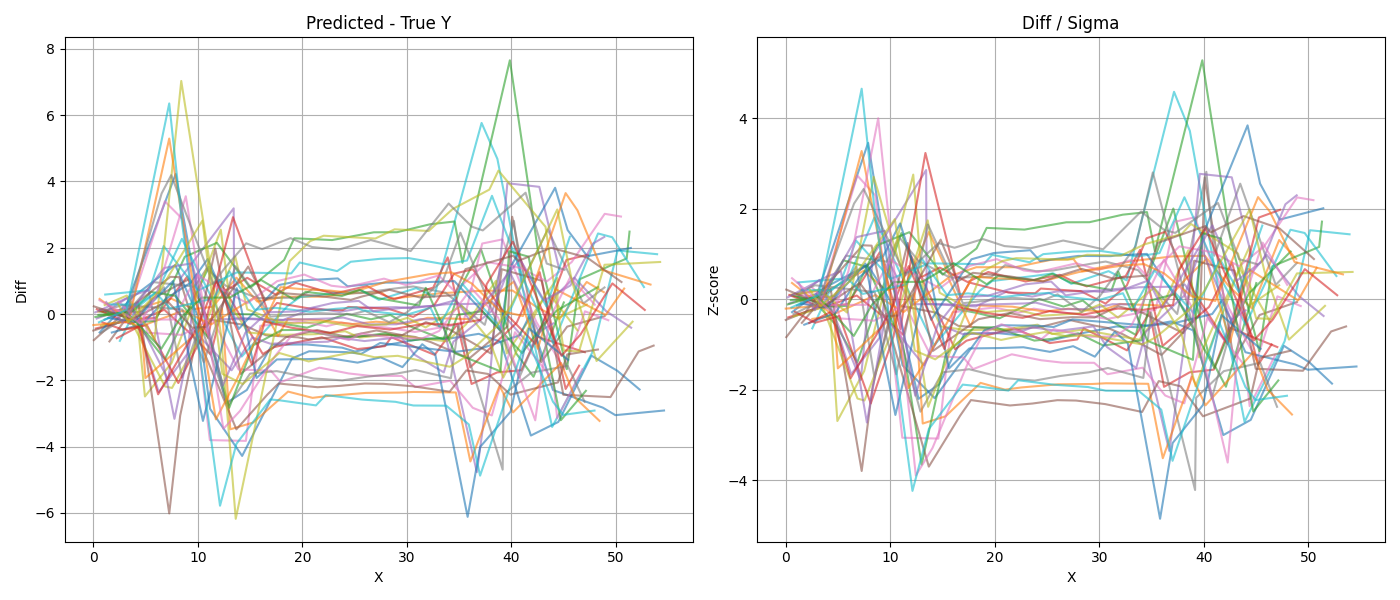
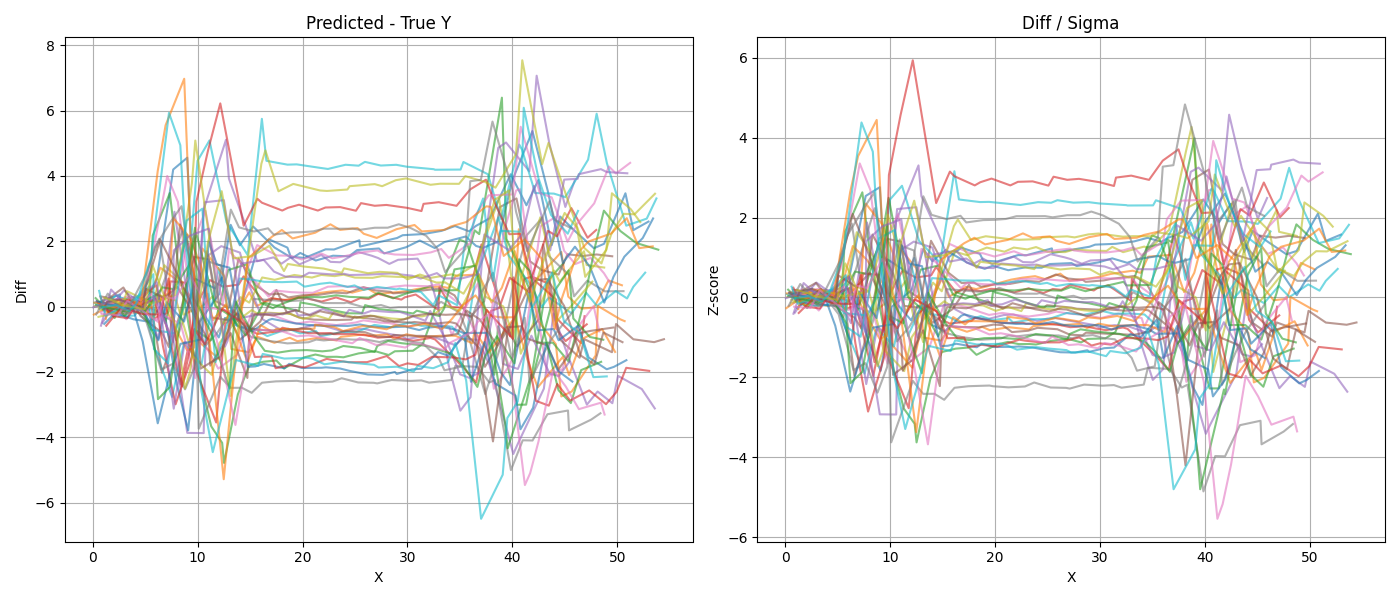
create automati resample and try GP with it. still with x and y

diff --git a/resample.py b/resample.py
@@ -1,0 +1,113 @@
+import os
+import numpy as np
+import matplotlib.pyplot as plt
+from scipy.interpolate import interp1d, CubicSpline, BarycentricInterpolator
+import argparse
+import json
+import glob
+
+# ========================== #
+#      CONFIG DICTIONARY     #
+# ========================== #
+config = {
+    "input_dir": "curves",      # Folder containing input .txt files
+    "output_dir": "resampled_curves", # Folder to save resampled .txt files
+    "interpolation": "linear",
+    "x_min": 0,
+    "x_max": 55,
+    "num_points": 40,
+    "plot": {
+        "show": False,
+        "save": False,
+        "file_name": "plot.png"
+    }
+}
+
+# ========================== #
+#       ARGUMENT PARSING     #
+# ========================== #
+parser = argparse.ArgumentParser(description="Batch interpolation and resampling of curve data.")
+
+parser.add_argument('--input_dir', type=str, help='Input folder with curve_*.txt files')
+parser.add_argument('--output_dir', type=str, help='Output folder to save resampled files')
+parser.add_argument('--interpolation', choices=['linear', 'cubic', 'quadratic', 'nearest', 'polynomial'], help="Interpolation type")
+parser.add_argument('--x_min', type=float, help='Min x value')
+parser.add_argument('--x_max', type=float, help='Max x value')
+parser.add_argument('--num_points', type=int, help='Number of points to sample')
+
+args = parser.parse_args()
+
+# Override config
+if args.input_dir: config['input_dir'] = args.input_dir
+if args.output_dir: config['output_dir'] = args.output_dir
+if args.interpolation: config['interpolation'] = args.interpolation
+if args.x_min is not None: config['x_min'] = args.x_min
+if args.x_max is not None: config['x_max'] = args.x_max
+if args.num_points: config['num_points'] = args.num_points
+
+print("Using config:")
+print(json.dumps(config, indent=4))
+
+# ========================== #
+#       HELPER FUNCTIONS     #
+# ========================== #
+
+def parse_txt_file(file_path):
+    with open(file_path, 'r') as file:
+        lines = file.readlines()
+        parameters = eval(lines[0].split(":", 1)[1].strip())
+        points_start = lines.index("Points:\n") + 1
+        points = [tuple(map(float, line.strip().split(','))) for line in lines[points_start:]]
+    return parameters, np.array(points)
+
+def get_interpolation_function(x_data, y_data, interpolation_type):
+    if interpolation_type == 'linear':
+        return interp1d(x_data, y_data, kind='linear', fill_value="extrapolate")
+    elif interpolation_type == 'cubic':
+        return CubicSpline(x_data, y_data, bc_type='natural')
+    elif interpolation_type == 'quadratic':
+        return interp1d(x_data, y_data, kind='quadratic', fill_value="extrapolate")
+    elif interpolation_type == 'nearest':
+        return interp1d(x_data, y_data, kind='nearest', fill_value="extrapolate")
+    elif interpolation_type == 'polynomial':
+        return BarycentricInterpolator(x_data, y_data)
+    else:
+        raise ValueError(f"Unsupported interpolation type: {interpolation_type}")
+
+def resample_and_save(file_path, output_path):
+    parameters, points = parse_txt_file(file_path)
+    x_data, y_data = points[:, 0], points[:, 1]
+    
+    new_x = np.linspace(config['x_min'], config['x_max'], config['num_points'])
+    interpolator = get_interpolation_function(x_data, y_data, config['interpolation'])
+    new_y = interpolator(new_x)
+
+    with open(output_path, 'w') as f:
+        f.write(f"Parameters: {parameters}\n")
+        f.write("Points:\n")
+        for x, y in zip(new_x, new_y):
+            f.write(f"{x}, {y}\n")
+    print(f"Saved: {output_path}")
+
+# ========================== #
+#           MAIN             #
+# ========================== #
+
+def main():
+    os.makedirs(config['output_dir'], exist_ok=True)
+    input_pattern = os.path.join(config['input_dir'], "curve_*.txt")
+    input_files = sorted(glob.glob(input_pattern))
+
+    if not input_files:
+        print("No input files found.")
+        return
+
+    for file_path in input_files:
+        base_name = os.path.basename(file_path)
+        name_without_ext = os.path.splitext(base_name)[0]
+        resampled_name = name_without_ext + "_rs.txt"
+        output_path = os.path.join(config['output_dir'], resampled_name)
+        resample_and_save(file_path, output_path)
+
+if __name__ == "__main__":
+    main()

diff --git a/GP_predictions.py b/GP_predictions.py
@@ -11,7 +11,7 @@ import argparse
 # ========================== #
 config = {
     "random_seed": 34,
-    "num_points": 20,
+    "num_points": 40,
     "max_curves": None,
     "data_folder": "curves",
     "figures_folder": "figures",
@@ -129,23 +129,28 @@ def load_dataset(folder, num_points, max_curves=None):
             x_vals, y_vals = np.array(x_vals), np.array(y_vals)
 
             #! Do i want to sample the whole curve OR real random?
-            segment_size = len(x_vals) // num_points
-            training_indices = np.array([
-                rng.choice(np.arange(i * segment_size, (i + 1) * segment_size))
-                for i in range(num_points)
-            ])
+            if num_points != None:
+                segment_size = len(x_vals) // num_points
+                training_indices = np.array([
+                    rng.choice(np.arange(i * segment_size, (i + 1) * segment_size))
+                    for i in range(num_points)
+                ])
 
-            if len(x_vals) % num_points != 0:
-                training_indices[-1] = len(x_vals) - 1
-            
-            """
-            global rng
-            # Randomly select num_points indices from x_vals
-            training_indices = rng.choice(len(x_vals), size=num_points, replace=False)
-            training_indices = np.sort(training_indices)
-            """
-            X_sample = params + list(x_vals[training_indices])
-            Y_sample = list(y_vals[training_indices])
+                if len(x_vals) % num_points != 0:
+                    training_indices[-1] = len(x_vals) - 1
+                
+                """
+                global rng
+                # Randomly select num_points indices from x_vals
+                training_indices = rng.choice(len(x_vals), size=num_points, replace=False)
+                training_indices = np.sort(training_indices)
+                """
+                X_sample = params + list(x_vals[training_indices])
+                Y_sample = list(y_vals[training_indices])
+            else:
+                X_sample = params + list(x_vals)
+                Y_sample = list(y_vals)
+
             X.append(X_sample)
             Y.append(Y_sample)
 
